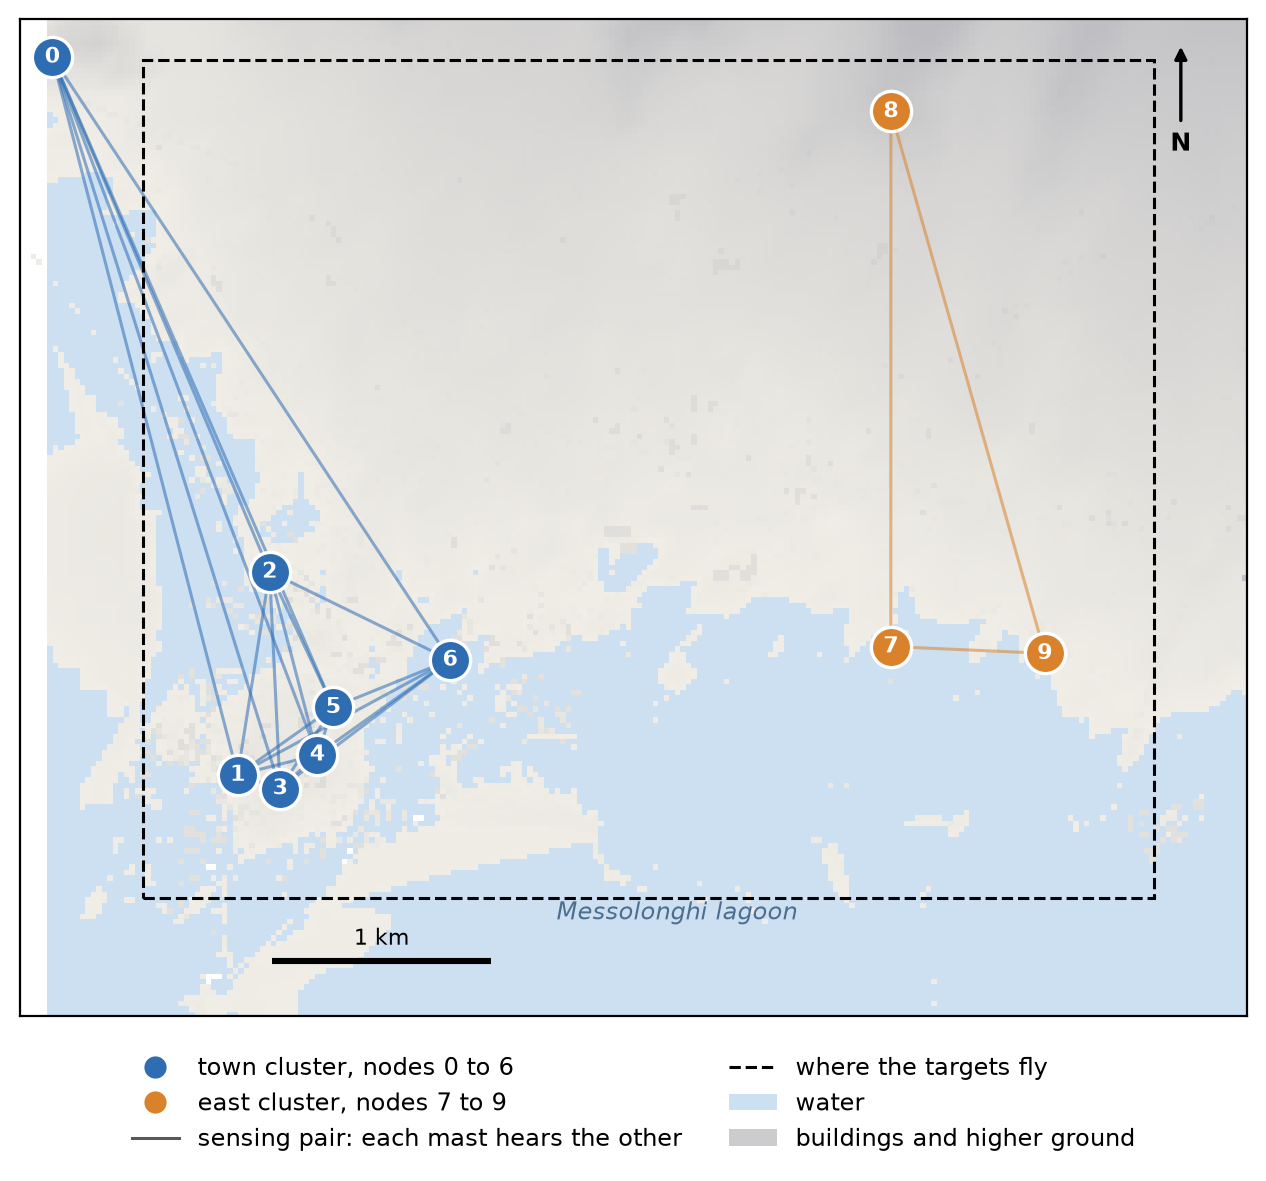
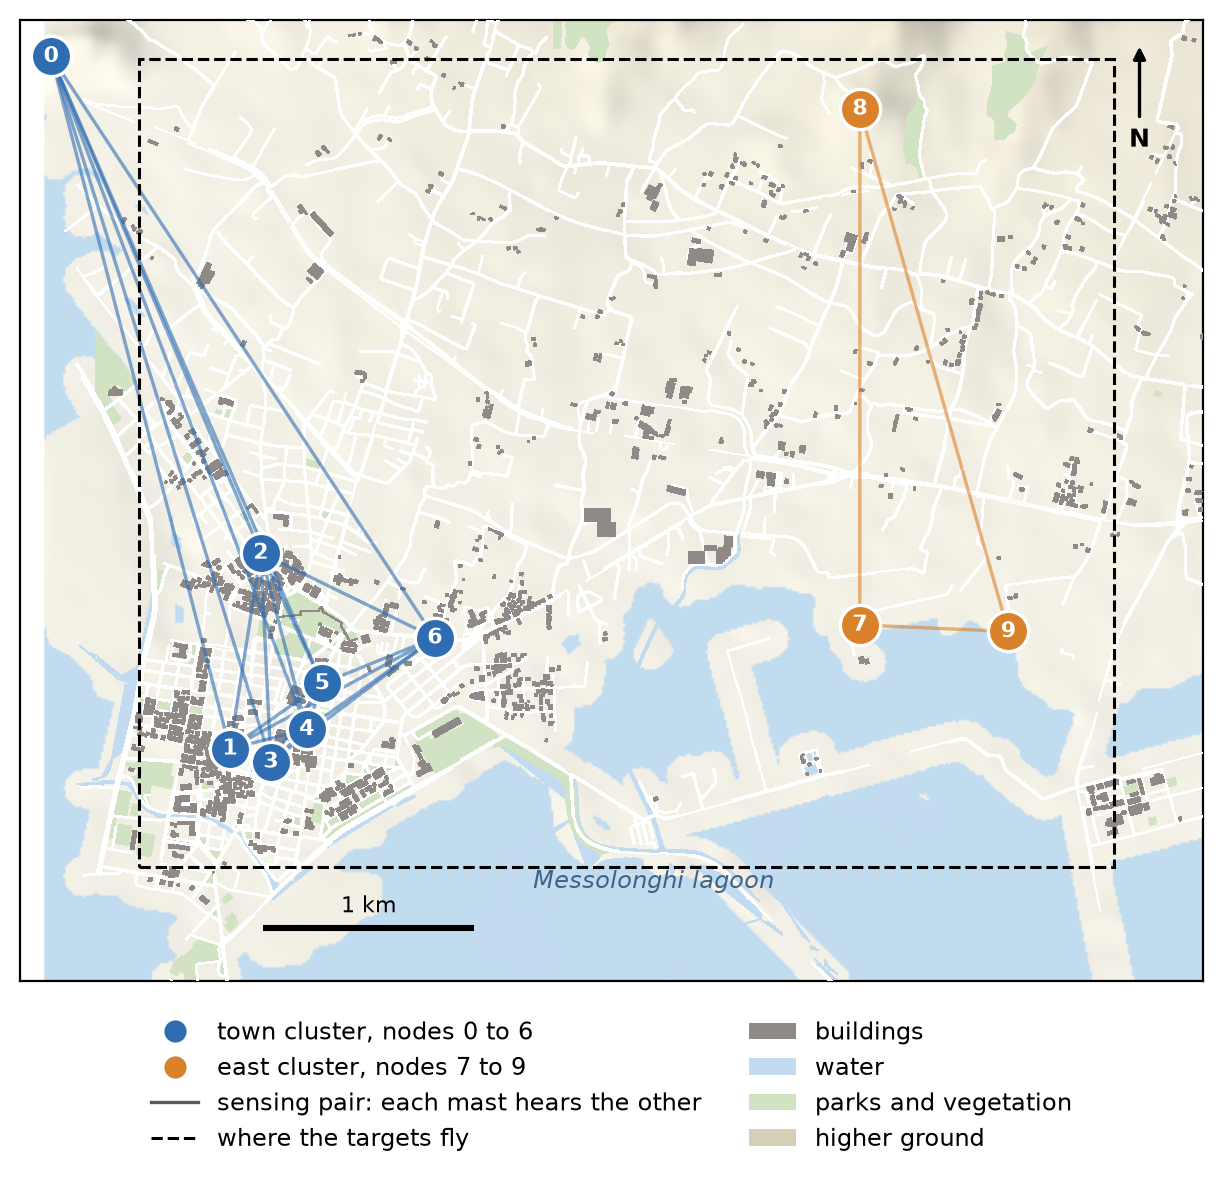
Map on the town's own ground, why five masts are documented

diff --git a/README.md b/README.md
@@ -18,9 +18,9 @@ Each run has one target flying anywhere over the masts' area (4.6 km × 3.8 km).
 
 ![Map of Messolonghi with the 10 masts in two clusters, lines between the masts that sense together, and the area where targets fly](map.png)
 
-*The 10 masts over Messolonghi. Blue: the town cluster (nodes 0 to 6). Orange: the east cluster (nodes 7 to 9). A line joins two masts that sense together: each one receives the other's signal reflected by the target. Targets fly inside the dashed box. Node 0 stands at the edge of the 3D model, 3 km from the rest of its cluster: an uninformative node, kept on purpose.*
+*The 10 masts over Messolonghi. Blue: the town cluster (nodes 0 to 6). Orange: the east cluster (nodes 7 to 9). A line joins two masts that sense together: each one receives the other's signal reflected by the target. Targets fly inside the dashed box. Node 0 stands at the edge of the 3D model, 3 km from the rest of its cluster: an uninformative node, kept on purpose. Map data © OpenStreetMap contributors (ODbL), terrain SRTM.*
 
-Five masts are documented in EEAE studies (height, sector azimuths, antenna gain and beamwidths, power per sector): nodes 2, 5, 6, 8 and 9. The other five use a generic sensing panel (18 dBi, 64° × 6.5°) in 3 sectors, at 20 m and 8 W.
+Five masts have a recent public licence study (radio-emission study, 2023 to 2025) that lists their 3.5 GHz antennas: height, sector azimuths, gain, beamwidths and power per sector. These are nodes 2, 5, 6, 8 and 9. For the other five the latest documents are older 3G studies (2013 to 2018) without 3.5 GHz antennas, a declaration without an antenna table, or none at all, so they use a generic sensing panel (18 dBi, 64° × 6.5°) in 3 sectors, at 20 m and 8 W.
 
 ## Communication graphs
 
